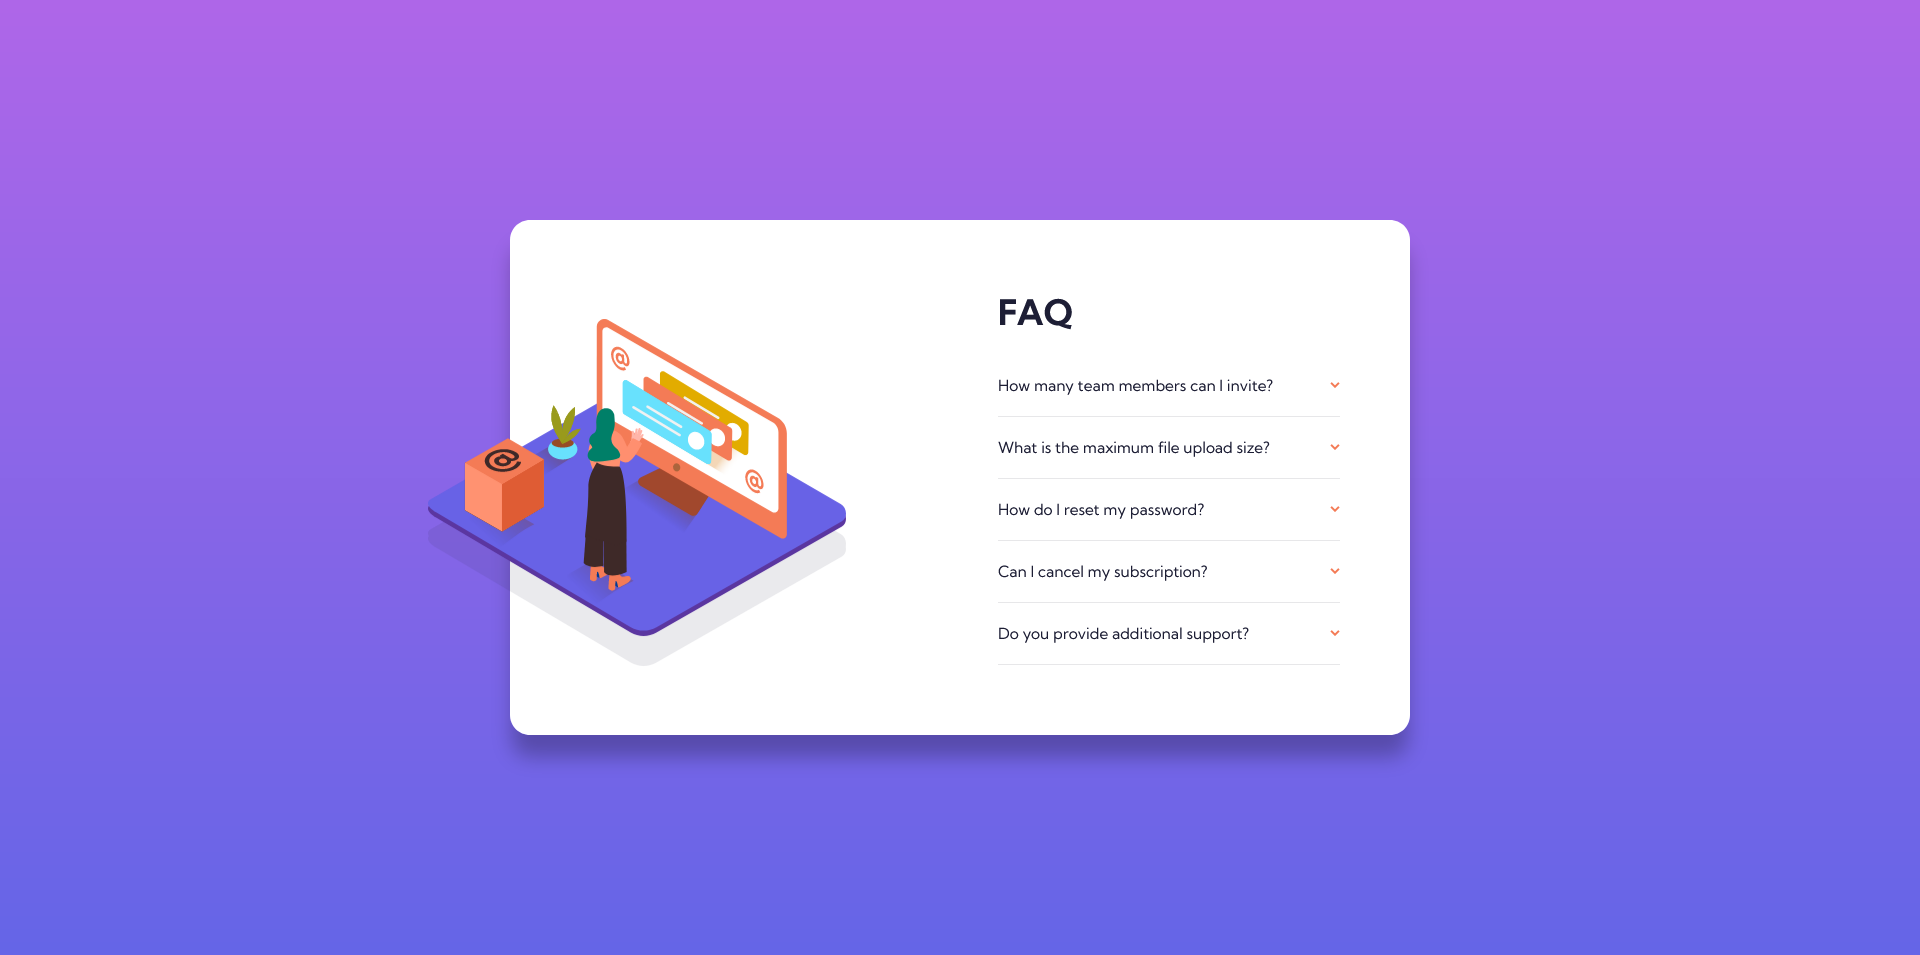
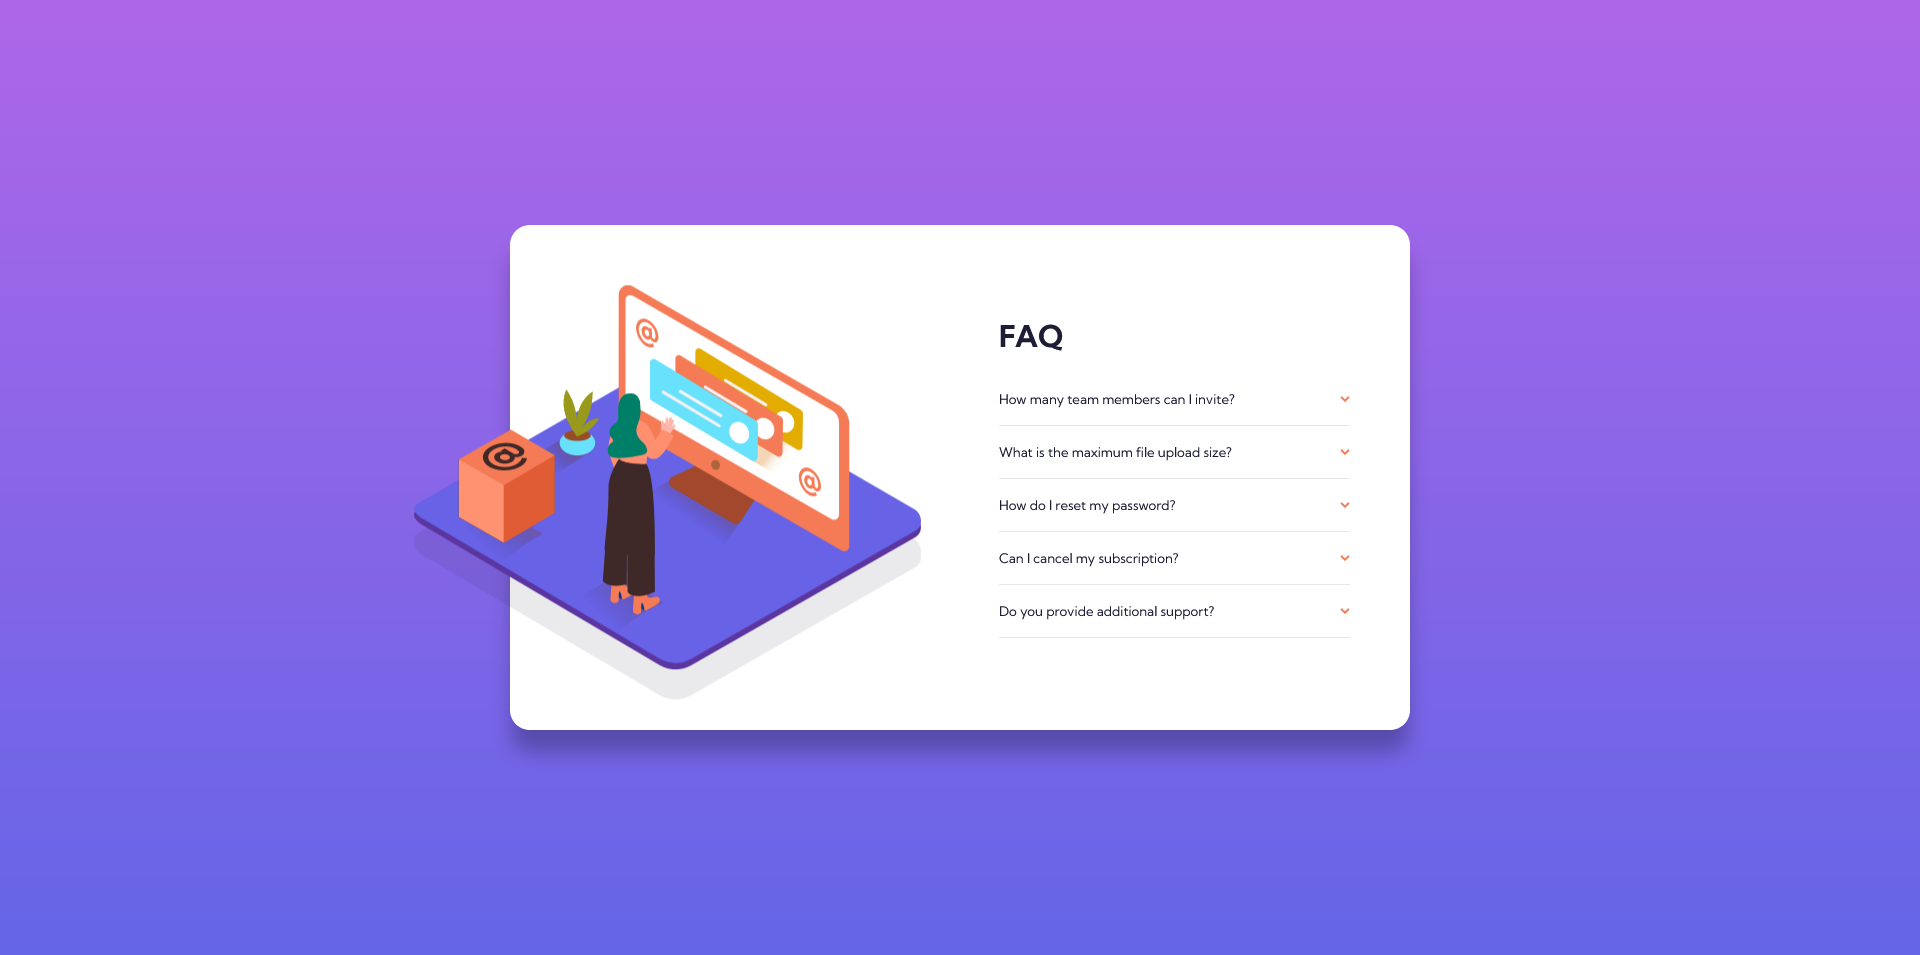
sizes and readme updated

diff --git a/style.css b/style.css
@@ -124,9 +124,7 @@ button:hover {
 }
 
 @media(min-width: 1000px) {
-    html {
-        font-size: 14px;
-    }
+
     main {
         width: 900px;
         flex-direction: row;
@@ -138,7 +136,7 @@ button:hover {
     main > svg {
         margin-left: -20%;
         margin-top: 0;
-        width: 55%;
+        width: 65%;
     }
 
     div {

diff --git a/README.md b/README.md
@@ -32,7 +32,7 @@ Users should be able to:
 ### Links
 
 - Solution URL: [here](https://your-solution-url.com)
-- Live Site URL: [here](https://your-live-site-url.com)
+- Live Site URL: [here](https://www.frontendmentor.io/solutions/faqaccordioncardmain-ZAqk6dN70v/)
 
 ## My process
 
